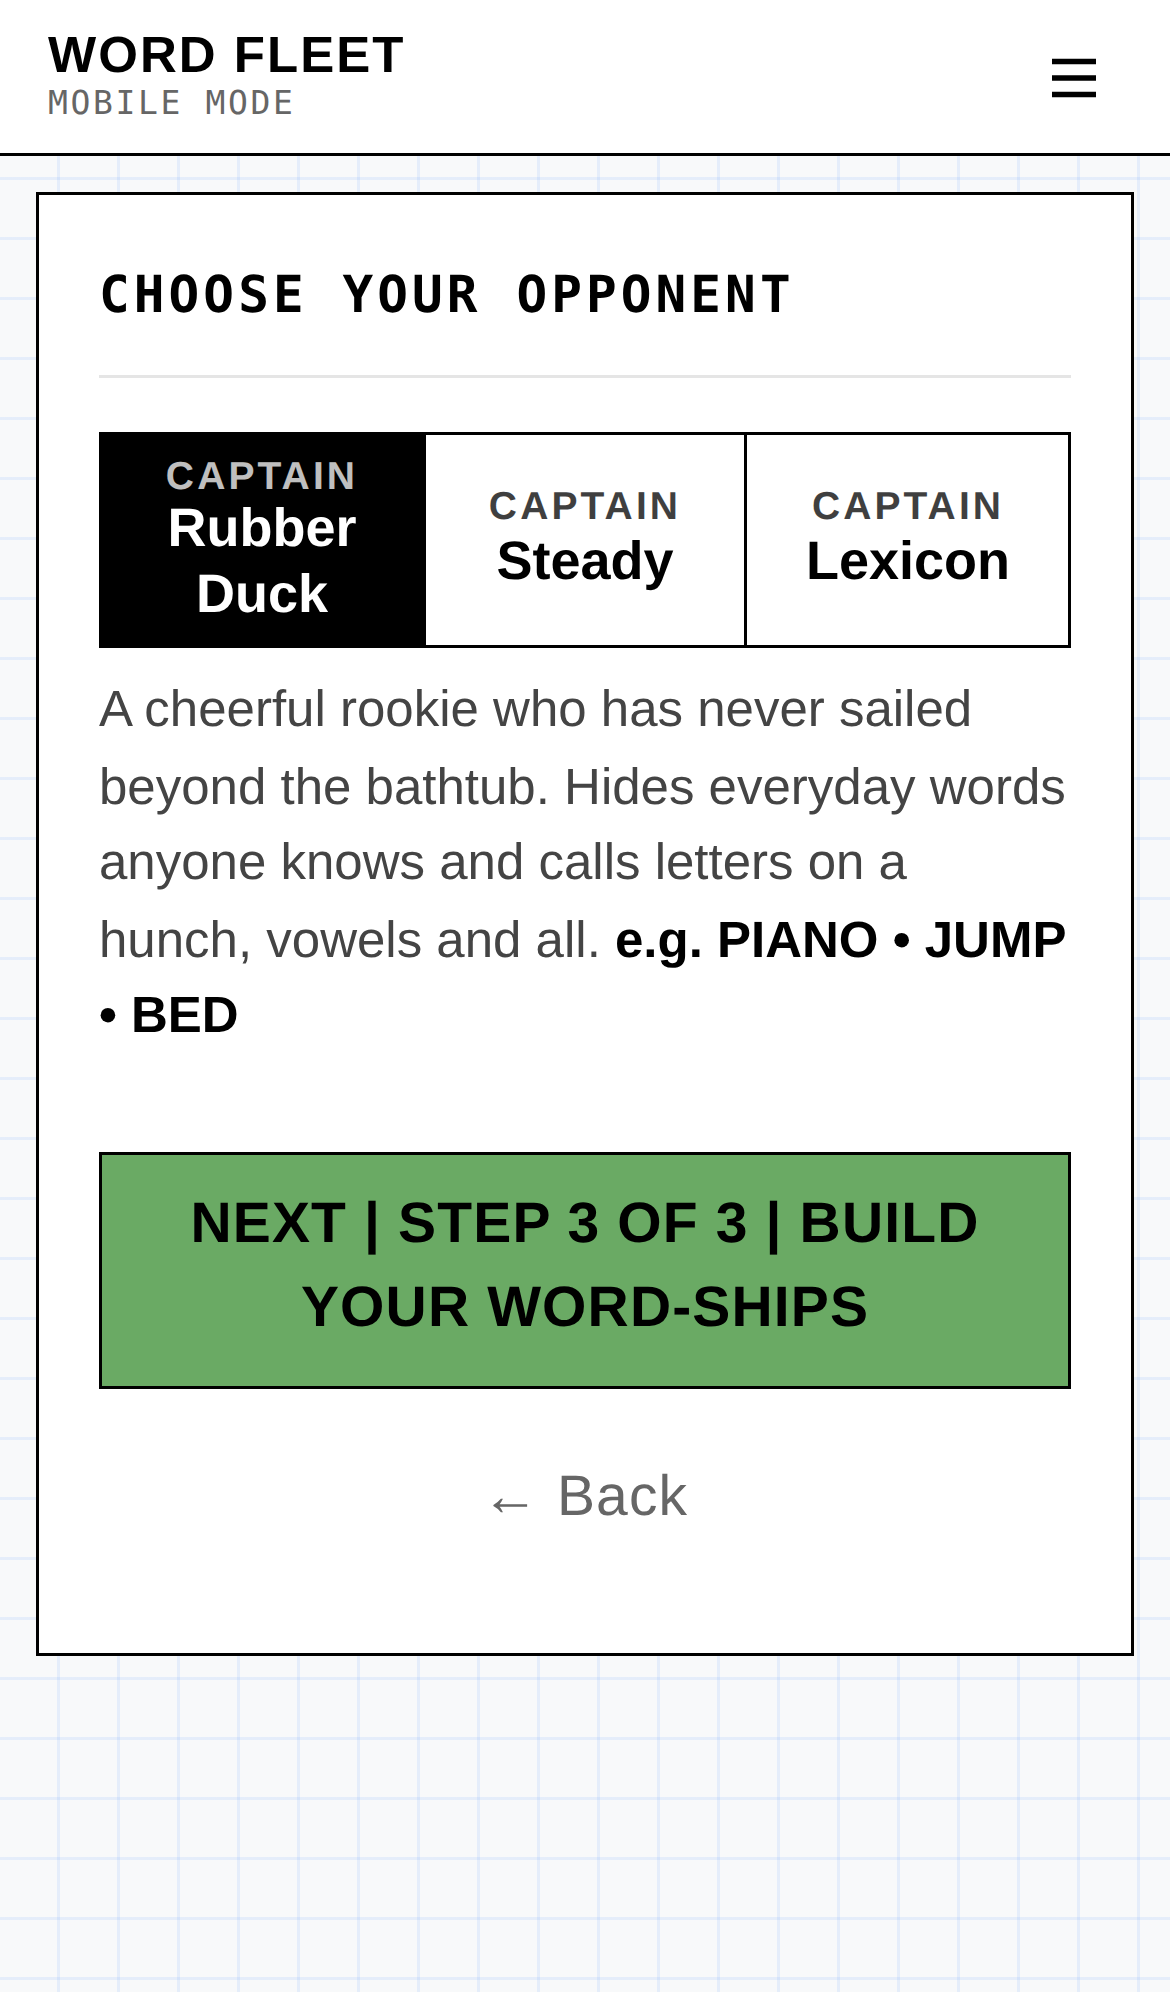
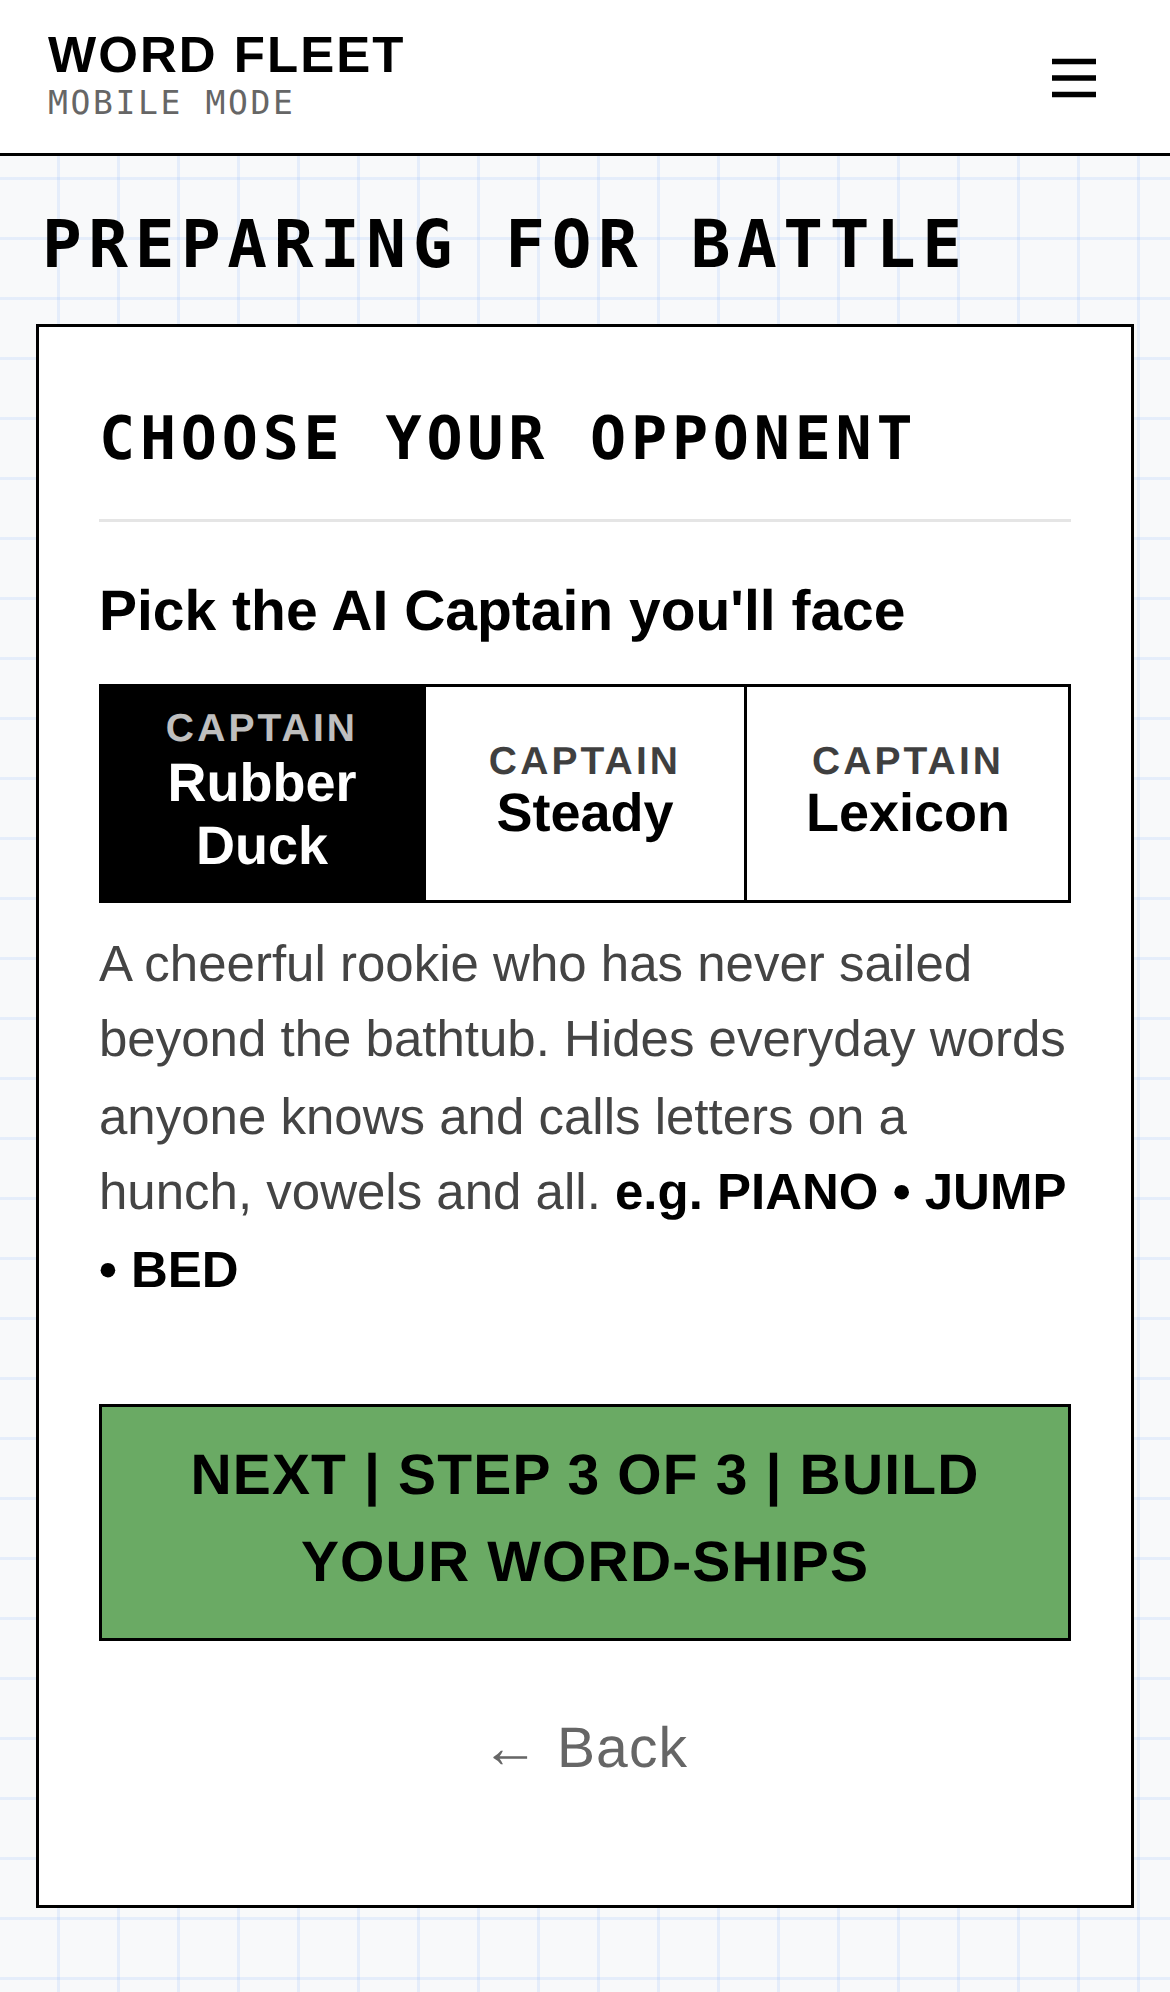
Setup screens 001-003: shared PREPARING FOR BATTLE header and matching section headers
Claude-Session: https://claude.ai/code/session_013sUGAAEC45a1EJCrQWVj9Q

diff --git a/mobile/index.html b/mobile/index.html
@@ -18,7 +18,7 @@
   <link rel="preconnect" href="https://fonts.gstatic.com" crossorigin>
   <link href="https://fonts.googleapis.com/css2?family=Courier+Prime:wght@400;700&family=Inter:wght@400;500;600;700&display=swap" rel="stylesheet">
   <!-- Bump ?v= on every release (and CACHE in sw.js) so a new page never runs old code. -->
-  <link rel="stylesheet" href="app.css?v=44">
+  <link rel="stylesheet" href="app.css?v=45">
 </head>
 <body>
 
@@ -53,8 +53,9 @@
 
   <!-- ============ 001-MOBILE-PREPARE (screen name: "001-MOBILE-PREPARE") ============ -->
   <section class="screen setup-big" id="scrSetup" data-screen="001-MOBILE-PREPARE">
+    <h1 class="page-head">Preparing for Battle</h1>
     <div class="card">
-      <div class="card-title">Welcome Captain! Prepare for Battle</div>
+      <div class="card-title">Welcome Captain!</div>
       <label class="label label--say" for="selLang">Choose your language</label>
       <select class="select" id="selLang"></select>
 
@@ -71,8 +72,10 @@
 
   <!-- ============ 002-MOBILE-OPPONENT (screen name: "002-MOBILE-OPPONENT") ============ -->
   <section class="screen setup-big" id="scrOpponent" data-screen="002-MOBILE-OPPONENT">
+    <h1 class="page-head">Preparing for Battle</h1>
     <div class="card">
       <div class="card-title">Choose Your Opponent</div>
+      <span class="label label--say">Pick the AI Captain you'll face</span>
       <div class="seg" id="segLevel">
         <button type="button" data-v="ensign" class="is-on"><span class="cpt">Captain</span>Rubber Duck</button>
         <button type="button" data-v="commander"><span class="cpt">Captain</span>Steady</button>
@@ -87,11 +90,14 @@
 
   <!-- ============ 003-MOBILE-WORD-SHIPS (screen name: "003-MOBILE-WORD-SHIPS") ============ -->
   <section class="screen setup-big" id="scrWords" data-screen="003-MOBILE-WORD-SHIPS">
+    <h1 class="page-head">Preparing for Battle</h1>
     <div class="card">
       <div class="card-title">Build Your Word-Ships</div>
+      <span class="label label--say">Offensive words</span>
       <label class="check check--top"><input type="checkbox" id="chkOffensive"> Possibly Offensive Words OK</label>
       <p class="hint hint--tight">Applies to both fleets.</p>
 
+      <span class="label label--say">Your five word-ships</span>
       <div id="wordList"></div>
       <button class="btn btn--wide btn--sm-gap" id="btnRefreshAll" type="button">&#x21bb; Refresh All</button>
       <p class="note" id="setupNote"></p>
@@ -211,7 +217,7 @@
 
 <div class="toast" id="toast" hidden></div>
 
-<script src="audio.js?v=44"></script>
-<script src="app.js?v=44"></script>
+<script src="audio.js?v=45"></script>
+<script src="app.js?v=45"></script>
 </body>
 </html>

diff --git a/mobile/app.css b/mobile/app.css
@@ -427,3 +427,8 @@ button.mf { font: inherit; color: var(--ink); width: 100%; padding: 3px 0 2px; c
 .setup-big .word-class b { font-size: 16px; }
 .setup-big .input { letter-spacing: 0.06em; }
 .setup-big #inFleet { font-size: 18px; letter-spacing: 0.02em; padding: 10px; }
+
+/* "Preparing for Battle" header above the card on every setup screen (001-003) */
+.page-head { font-family: var(--mono); font-size: 22px; font-weight: 700; letter-spacing: 0.1em; text-transform: uppercase; line-height: 1.2; margin: 6px 2px 12px; color: var(--ink); }
+.setup-big .card-title { font-size: 20px; }
+.setup-big .label--say:first-of-type, .setup-big .card-title + .label--say { margin-top: 0; }

diff --git a/mobile/sw.js b/mobile/sw.js
@@ -1,11 +1,11 @@
 /* Word Fleet service worker: the whole game works offline once loaded. */
-var CACHE = 'wordfleet-v44';
+var CACHE = 'wordfleet-v45';
 var SHELL = [
   './',
   'index.html',
-  'app.css?v=44',
-  'app.js?v=44',
-  'audio.js?v=44',
+  'app.css?v=45',
+  'app.js?v=45',
+  'audio.js?v=45',
   'manifest.webmanifest',
   'icons/icon-180.png',
   'icons/icon-192.png',

diff --git a/mobile/screens/README.md b/mobile/screens/README.md
@@ -8,7 +8,7 @@ referred to by name when asking for changes. Each has a reference snapshot in th
 | Name | In the code | Snapshot | What it is |
 | --- | --- | --- | --- |
 | **MOBILE-HOME** *(parked)* | `<section id="scrMobileHome" data-screen="MOBILE-HOME">`, `SCREENS.home` | `mobile-home.png` | **Parked, not shown to players.** Kept for later use. Was the first screen: WORD FLEET title, Mobile Mode tag, blurb, New Battle and Rules of Engagement buttons. The app now opens on 001-MOBILE-PREPARE. |
-| **001-MOBILE-PREPARE** | `<section id="scrSetup" data-screen="001-MOBILE-PREPARE">`, `SCREENS.setup` | `001-mobile-prepare.png` | **First screen players see.** Title "Welcome Captain! Prepare for Battle". "Choose your language", then "Roll the die or type your own fleet name" (with dice). Changing language rolls a new fleet name in that language (`dictionaries/fleet-names.json`). Button "NEXT | STEP 2 OF 3 | CHOOSE YOUR OPPONENT". "← Back" goes to the Word Fleet home page (`../`, the site's `index.html`). Screens 001-003 use large, easy-to-read text (`.setup-big`). |
-| **002-MOBILE-OPPONENT** | `<section id="scrOpponent" data-screen="002-MOBILE-OPPONENT">`, `SCREENS.opponent` | `002-mobile-opponent.png` | The three AI Captains (Captain Rubber Duck, Captain Steady, Captain Lexicon), each with a short character sketch. Button "NEXT | STEP 3 OF 3 | BUILD YOUR WORD-SHIPS". |
-| **003-MOBILE-WORD-SHIPS** | `<section id="scrWords" data-screen="003-MOBILE-WORD-SHIPS">`, `SCREENS.words` | `003-mobile-word-ships.png` | Possibly Offensive Words OK at the top; the five word-ships arrive drawn for your opponent and are editable, each with a ↻ redraw; Refresh All; Deploy Fleet checks every word against the dictionary. |
+| **001-MOBILE-PREPARE** | `<section id="scrSetup" data-screen="001-MOBILE-PREPARE">`, `SCREENS.setup` | `001-mobile-prepare.png` | **First screen players see.** Card title "Welcome Captain!". "Choose your language", then "Roll the die or type your own fleet name" (with dice). Changing language rolls a new fleet name in that language (`dictionaries/fleet-names.json`). Button "NEXT | STEP 2 OF 3 | CHOOSE YOUR OPPONENT". "← Back" goes to the Word Fleet home page (`../`, the site's `index.html`). Screens 001-003 share one look: a "PREPARING FOR BATTLE" page header above the card (`.page-head`), the step's card title, plain-language section headers (`.label--say`), and large, easy-to-read text (`.setup-big`). |
+| **002-MOBILE-OPPONENT** | `<section id="scrOpponent" data-screen="002-MOBILE-OPPONENT">`, `SCREENS.opponent` | `002-mobile-opponent.png` | Card title "Choose Your Opponent", section "Pick the AI Captain you'll face": the three AI Captains (Captain Rubber Duck, Captain Steady, Captain Lexicon), each with a short character sketch. Button "NEXT | STEP 3 OF 3 | BUILD YOUR WORD-SHIPS". |
+| **003-MOBILE-WORD-SHIPS** | `<section id="scrWords" data-screen="003-MOBILE-WORD-SHIPS">`, `SCREENS.words` | `003-mobile-word-ships.png` | Card title "Build Your Word-Ships". Section "Offensive words": Possibly Offensive Words OK, "Applies to both fleets." Section "Your five word-ships": the five word-ships arrive drawn for your opponent and are editable, each with a ↻ redraw; Refresh All; Deploy Fleet checks every word against the dictionary. |
 | **004-MOBILE-DEPLOY** | `<section id="scrDeploy" data-screen="004-MOBILE-DEPLOY">`, `SCREENS.deploy` | `004-mobile-deploy.png`, `004-mobile-deploy-placed.png` | Place the five word-ships on your Defense Grid: Across/Down, Scatter, Clear, the roster of ships, Confirm Deployment, Change Words. Drag a ship to move it; double-tap its first letter to turn it. |
